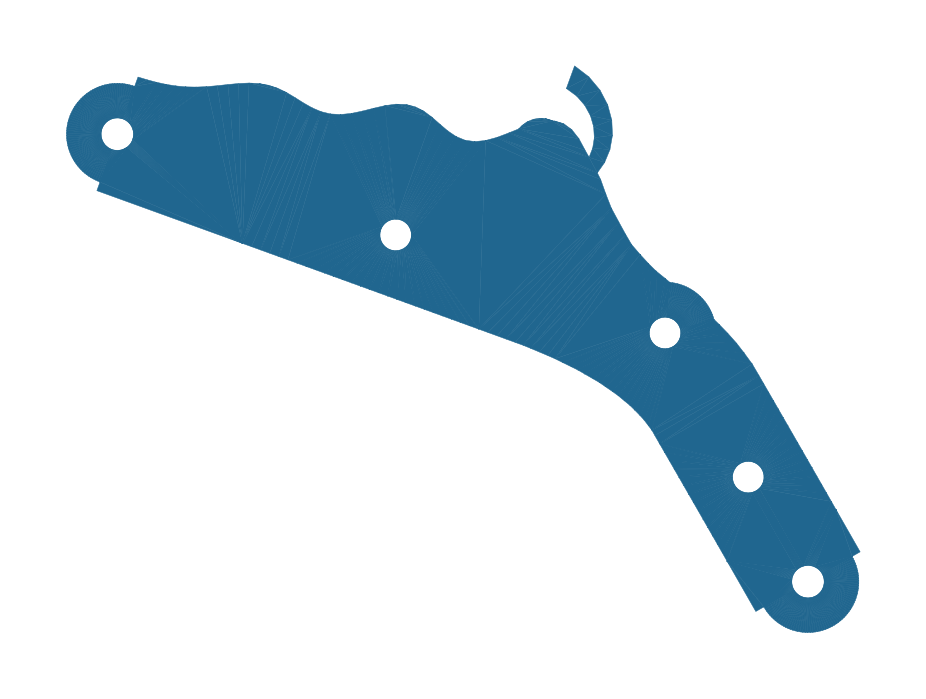
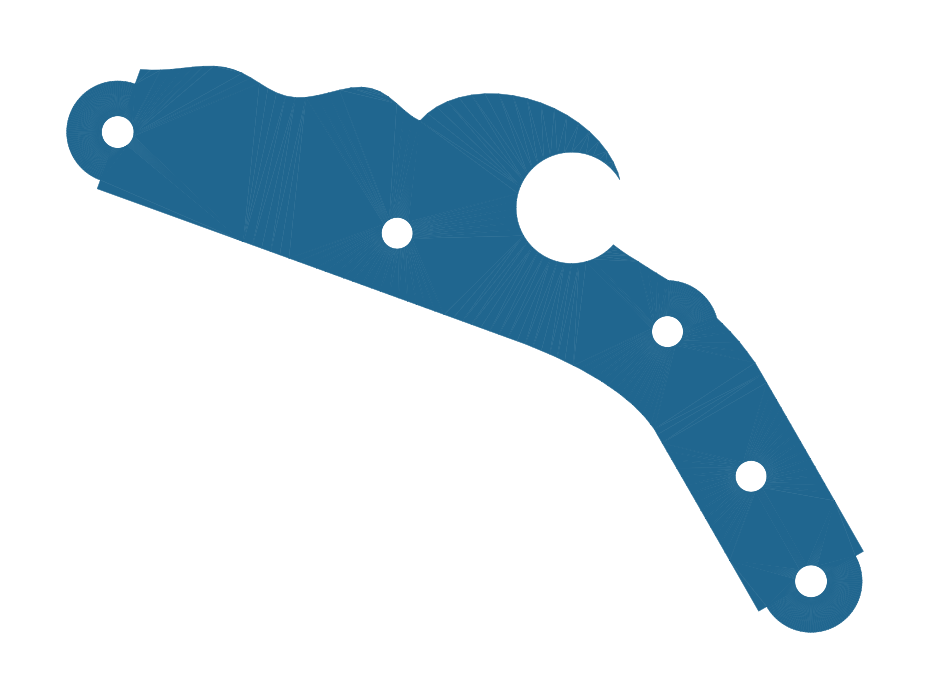
Wave bridge crest v2: the tube is the wave
Design review feedback: the log-spiral lip read as a fragile snap-off
tab. Rebuilt the crest as a solid forward-leaning lobe with the tube
carved out as an OPEN round hollow — the lip now tapers over the mouth
like a closing-out wave. Swells unchanged. Crest shifted to 0.40 along
the spine to keep the mouth clear of the W4 bearing boss.

diff --git a/caliber_k1/decor.py b/caliber_k1/decor.py
@@ -138,7 +138,7 @@ def _chaikin(points, iterations: int = 3):
 
 
 def wave_bridge_face(path_points, half_w: float = 6.5,
-                     crest_at: float = 0.45, curl_r: float = 9.0):
+                     crest_at: float = 0.40, curl_r: float = 9.0):
     """Bridge body along path_points with an ocean-swell top edge and a
     curling crest.
 
@@ -174,22 +174,39 @@ def wave_bridge_face(path_points, half_w: float = 6.5,
         outboard.append((x + nx * off, y + ny * off))
     body = _ccw_polygon(inboard + outboard[::-1])
 
-    # the curl: logarithmic spiral ribbon rolling forward over the crest
+    # The crest: a thick C-form rolling forward over the tallest swell.
+    # What makes a wave read isn't the lip — it's the TUBE, the round
+    # negative space under it. The C is a thick elliptical arc in the
+    # local (travel, outboard) frame: rooted in the swell mass behind
+    # the peak, arching over it, and diving forward until its lip kisses
+    # the band edge — enclosing a round hollow. Minimum section ~3.5mm:
+    # nothing to snap off.
     ci = int((crest_at + 0.03) * (n_pts - 1))
     nx, ny = normal(ci)
-    cx = path[ci][0] + nx * (half_w + swells[-1][0] - curl_r * 0.30)
-    cy = path[ci][1] + ny * (half_w + swells[-1][0] - curl_r * 0.30)
-    tx, ty = ny, -nx                       # travel direction (left-normal frame)
-    base_ang = atan2(ny, nx)               # spiral starts pointing outboard
-    spiral_out, spiral_in = [], []
-    n = 36
+    tx, ty = ny, -nx                        # forward along the path
+    # solid crest lobe: an ellipse leaning forward over the tallest swell
+    ox = path[ci][0] + nx * 10.0 + tx * 2.0
+    oy = path[ci][1] + ny * 10.0 + ty * 2.0
+    a_l, b_l = 12.0, 8.5
+    lobe = []
+    n = 48
     for i in range(n + 1):
-        th = 2.5 * pi * i / n
-        r_o = curl_r * exp(-0.20 * th)
-        # ribbon never thinner than 1.2mm (3 perimeters at 0.4 nozzle)
-        r_i = max(min(r_o - 1.2, r_o - 2.6 * exp(-0.25 * th)), 0.4)
-        a = base_ang - th                  # curl rolls forward/down-swell
-        spiral_out.append((cx + r_o * cos(a), cy + r_o * sin(a)))
-        spiral_in.append((cx + r_i * cos(a), cy + r_i * sin(a)))
-    body += _ccw_polygon(spiral_out + spiral_in[::-1])
+        phi = 2 * pi * i / n
+        c_p, s_p = cos(phi), sin(phi)
+        lobe.append((ox + a_l * c_p * tx + b_l * s_p * nx,
+                     oy + a_l * c_p * ty + b_l * s_p * ny))
+    body += _ccw_polygon(lobe)
+    # the tube: an open round bite forward of the lobe center — it eats
+    # the lobe's forward flank AND breaks out through the descending
+    # swell edge, so the upper lip arcs over an OPEN hollow (the mouth
+    # faces forward, like a wave about to close out). Positioned clear
+    # of the W4 bearing boss (asserted by eye + clearance re-render).
+    tube_r = 6.0
+    tcx = path[ci][0] + tx * 9.0 + nx * 9.0
+    tcy = path[ci][1] + ty * 9.0 + ny * 9.0
+    tube = []
+    for i in range(n + 1):
+        phi = 2 * pi * i / n
+        tube.append((tcx + tube_r * cos(phi), tcy + tube_r * sin(phi)))
+    body -= _ccw_polygon(tube)
     return body